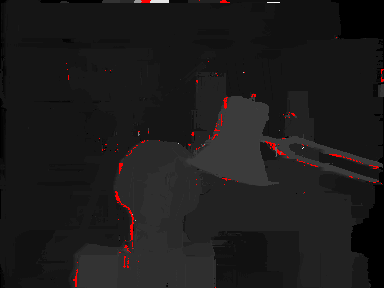
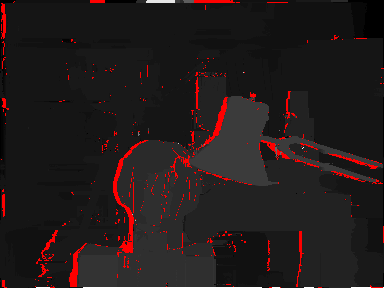
Refinement fixed
- consistency calculated
- fixed confidence level

diff --git a/stereo_matching/main.cpp b/stereo_matching/main.cpp
@@ -346,9 +346,9 @@ int main()
   cl_event event_asw_wta;
   cl_event event_image;
   cl_event event_aggr;
-  cl_event event_vreff_l;
-  cl_event event_hreff_l;
-  cl_event event_wta_ref_l;
+  cl_event event_vreff[2];
+  cl_event event_hreff[2];
+  cl_event event_wta_ref[2];
 
   cl_mem asw_cost_buffer[2]; 
   cl_mem asw_initcost = clCreateBuffer(context, CL_MEM_READ_WRITE, sizeof(float) * result[1].width * result[1].height * 61, nullptr, &error);
@@ -356,11 +356,15 @@ int main()
   asw_cost_buffer[1] = clCreateBuffer(context, CL_MEM_READ_WRITE, sizeof(float) * result[1].width * result[1].height * 61, nullptr, &error);
   cl_mem asw_left_wta = clCreateImage2D(context, CL_MEM_READ_WRITE, &format, result[0].width, result[0].height, 0, nullptr, &error);
   cl_mem asw_right_wta = clCreateImage2D(context, CL_MEM_READ_WRITE, &format, result[0].width, result[0].height, 0, nullptr, &error);
-  cl_mem asw_d = clCreateBuffer(context, CL_MEM_READ_WRITE, sizeof(float) * result[1].width * result[1].height * 3, nullptr, &error);
-  cl_mem asw_d_target = clCreateBuffer(context, CL_MEM_READ_WRITE, sizeof(float) * result[1].width * result[1].height * 3, nullptr, &error);
+  cl_mem asw_d_est_reference = clCreateBuffer(context, CL_MEM_READ_WRITE, sizeof(float) * result[1].width * result[1].height * 1, nullptr, &error);
+  cl_mem asw_d_est_target = clCreateBuffer(context, CL_MEM_READ_WRITE, sizeof(float) * result[1].width * result[1].height * 1, nullptr, &error);
+  cl_mem asw_confidence_reference = clCreateBuffer(context, CL_MEM_READ_WRITE, sizeof(float) * result[1].width * result[1].height * 1, nullptr, &error);
+  cl_mem asw_confidence_target = clCreateBuffer(context, CL_MEM_READ_WRITE, sizeof(float) * result[1].width * result[1].height * 1, nullptr, &error);
   cl_mem asw_vref_l = clCreateBuffer(context, CL_MEM_READ_WRITE, sizeof(float) * result[1].width * result[1].height * 2, nullptr, &error);
+  cl_mem asw_vref_r = clCreateBuffer(context, CL_MEM_READ_WRITE, sizeof(float) * result[1].width * result[1].height * 2, nullptr, &error);
   cl_mem asw_href_l = clCreateBuffer(context, CL_MEM_READ_WRITE, sizeof(float) * result[1].width * result[1].height * 2, nullptr, &error);
-  cl_mem asw_wta_ref_l = clCreateBuffer(context, CL_MEM_READ_WRITE, sizeof(float) * result[1].width * result[1].height * 3, nullptr, &error);
+  cl_mem asw_href_r = clCreateBuffer(context, CL_MEM_READ_WRITE, sizeof(float) * result[1].width * result[1].height * 2, nullptr, &error);
+  cl_mem asw_wta_ref_l = clCreateBuffer(context, CL_MEM_READ_WRITE, sizeof(float) * result[1].width * result[1].height * 2, nullptr, &error);
   cl_mem asw_denom = clCreateBuffer(context, CL_MEM_READ_WRITE, sizeof(float) * result[1].width * result[1].height * 61, nullptr, &error);
   cl_mem consistency_error = clCreateImage2D(context, CL_MEM_READ_WRITE, &format, result[0].width, result[0].height, 0, nullptr, &error);
   
@@ -371,23 +375,12 @@ int main()
   clSetKernelArg(asw_aggr, 1, sizeof(cl_mem), &inputImage_r);
   clSetKernelArg(asw_aggr, 2, sizeof(cl_mem), &asw_initcost);
   ErCheck(clEnqueueNDRangeKernel(queue, asw_aggr, 2, nullptr, size, nullptr, 0, nullptr, &event_aggr));
-  
-  clSetKernelArg(asw_disp, 0, sizeof(cl_mem), &asw_initcost);
-  clSetKernelArg(asw_disp, 1, sizeof(cl_mem), &asw_initcost);
-  clSetKernelArg(asw_disp, 2, sizeof(cl_mem), &asw_left_wta);
-  clSetKernelArg(asw_disp, 3, sizeof(cl_mem), &asw_d);
-  clSetKernelArg(asw_disp, 4, sizeof(cl_mem), &asw_right_wta);
-  clSetKernelArg(asw_disp, 5, sizeof(cl_mem), &asw_d_target);
-  // clSetKernelArg(asw_disp, 2, sizeof(cl_mem), &asw_right_wta);
-  ErCheck(clEnqueueNDRangeKernel(queue, asw_disp, 2, nullptr, size, nullptr, 1, &event_aggr, &event_asw_wta));
 
-  clEnqueueReadImage(queue, asw_left_wta, CL_TRUE, origin, region, 0, 0, result[1].pixel.data(), 1, &event_asw_wta, &event_aggr);
-  lodepng::encode("sukub/asw_raw_d.png", result[1].pixel, result[1].width, result[1].height);
    //cost - V
   printf("\nAggregation:");
   cl_mem * temp = &asw_initcost;
   //loop r times
-  int r = 10;
+  int r = 6;
   for (int i = 0; i < r; i++)
   {
    clSetKernelArg(asw_vaggregation_kernel, 0, sizeof(cl_mem), &inputImage_l);
@@ -405,19 +398,24 @@ int main()
    ErCheck(clEnqueueNDRangeKernel(queue, asw_haggregation_kernel, 3, nullptr, asw_cost_size, nullptr, 1, &event_vaggr, &event_haggr));
 
    //this part is just for testing purposes and will be put outside 'for'
+   
    clSetKernelArg(asw_disp, 0, sizeof(cl_mem), &asw_cost_buffer[1]);
-   clSetKernelArg(asw_disp, 1, sizeof(cl_mem), &asw_initcost);
-   clSetKernelArg(asw_disp, 2, sizeof(cl_mem), &asw_left_wta);
-   clSetKernelArg(asw_disp, 3, sizeof(cl_mem), &asw_d);
+   clSetKernelArg(asw_disp, 1, sizeof(cl_mem), &asw_left_wta);
+   clSetKernelArg(asw_disp, 2, sizeof(cl_mem), &asw_d_est_reference);
+   clSetKernelArg(asw_disp, 3, sizeof(cl_mem), &asw_d_est_target);
    clSetKernelArg(asw_disp, 4, sizeof(cl_mem), &asw_right_wta);
-   clSetKernelArg(asw_disp, 5, sizeof(cl_mem), &asw_d_target);
+   clSetKernelArg(asw_disp, 5, sizeof(cl_mem), &asw_confidence_reference);
+   clSetKernelArg(asw_disp, 6, sizeof(cl_mem), &asw_confidence_target);
    ErCheck(clEnqueueNDRangeKernel(queue, asw_disp, 2, nullptr, size, nullptr, 1, &event_haggr, &event_asw_wta));
-
+   
+   
    clSetKernelArg(consist_kernel, 0, sizeof(cl_mem), &asw_left_wta);
    clSetKernelArg(consist_kernel, 1, sizeof(cl_mem), &asw_right_wta);
-   clSetKernelArg(consist_kernel, 2, sizeof(cl_mem), &consistency_error);
+   clSetKernelArg(consist_kernel, 2, sizeof(cl_mem), &asw_confidence_reference);
+   clSetKernelArg(consist_kernel, 3, sizeof(cl_mem), &asw_confidence_target);
+   clSetKernelArg(consist_kernel, 4, sizeof(cl_mem), &consistency_error);
    ErCheck(clEnqueueNDRangeKernel(queue, consist_kernel, 2, nullptr, size, nullptr, 1, &event_asw_wta, &event_asw_wta));
-
+   
 
    clEnqueueReadImage(queue, asw_left_wta, CL_TRUE, origin, region, 0, 0, result[2].pixel.data(), 1, &event_asw_wta, &event_aggr);
    std::string img_name = "sukub/aggregation/reference/aggregation_" + std::to_string(i) + ".png";
@@ -439,30 +437,52 @@ int main()
   
   //its not working
   printf("\nRefinement:");
-  temp = &asw_d;
+  temp = &asw_d_est_reference;
+  cl_mem * temp_target = &asw_d_est_target;
+
   int k = 8;
   for (int i = 0; i < k; i++)
   {
+   //vertical refinement for left image
    clSetKernelArg(asw_ref_v, 0, sizeof(cl_mem), &inputImage_l);
    clSetKernelArg(asw_ref_v, 1, sizeof(cl_mem), temp);
-   clSetKernelArg(asw_ref_v, 2, sizeof(cl_mem), &asw_vref_l);
-   ErCheck(clEnqueueNDRangeKernel(queue, asw_ref_v, 2, nullptr, size, nullptr, 1, &event_aggr, &event_vreff_l));
+   clSetKernelArg(asw_ref_v, 2, sizeof(cl_mem), &asw_confidence_reference);
+   clSetKernelArg(asw_ref_v, 3, sizeof(cl_mem), &asw_vref_l);
+   ErCheck(clEnqueueNDRangeKernel(queue, asw_ref_v, 2, nullptr, size, nullptr, 1, &event_aggr, &event_vreff[0]));
 
+   //vertical refinement for right image
+   clSetKernelArg(asw_ref_v, 0, sizeof(cl_mem), &inputImage_r);
+   clSetKernelArg(asw_ref_v, 1, sizeof(cl_mem), temp_target);
+   clSetKernelArg(asw_ref_v, 2, sizeof(cl_mem), &asw_confidence_target);
+   clSetKernelArg(asw_ref_v, 3, sizeof(cl_mem), &asw_vref_r);
+   ErCheck(clEnqueueNDRangeKernel(queue, asw_ref_v, 2, nullptr, size, nullptr, 1, &event_aggr, &event_vreff[1]));
+
+   //horizontal refinement for left image
    clSetKernelArg(asw_ref_h, 0, sizeof(cl_mem), &inputImage_l);
    clSetKernelArg(asw_ref_h, 1, sizeof(cl_mem), temp);
-   clSetKernelArg(asw_ref_h, 2, sizeof(cl_mem), &asw_vref_l);
-   clSetKernelArg(asw_ref_h, 3, sizeof(cl_mem), &asw_href_l);
-   ErCheck(clEnqueueNDRangeKernel(queue, asw_ref_h, 2, nullptr, size, nullptr, 1, &event_vreff_l, &event_hreff_l));
+   clSetKernelArg(asw_ref_h, 2, sizeof(cl_mem), &asw_confidence_reference);
+   clSetKernelArg(asw_ref_h, 3, sizeof(cl_mem), &asw_vref_l);
+   clSetKernelArg(asw_ref_h, 4, sizeof(cl_mem), &asw_href_l);
+   ErCheck(clEnqueueNDRangeKernel(queue, asw_ref_h, 2, nullptr, size, nullptr, 1, &event_vreff[0], &event_hreff[0]));
 
-   clSetKernelArg(asw_wta_ref, 0, sizeof(cl_mem), &asw_initcost);
-   clSetKernelArg(asw_wta_ref, 1, sizeof(cl_mem), &asw_cost_buffer[1]);
-   clSetKernelArg(asw_wta_ref, 2, sizeof(cl_mem), &asw_href_l);
-   clSetKernelArg(asw_wta_ref, 3, sizeof(cl_mem), &asw_left_wta);
-   clSetKernelArg(asw_wta_ref, 4, sizeof(cl_mem), &asw_wta_ref_l);
-   ErCheck(clEnqueueNDRangeKernel(queue, asw_wta_ref, 2, nullptr, size, nullptr, 1, &event_hreff_l, &event_wta_ref_l));
+   //horizontal refinement for right image
+   clSetKernelArg(asw_ref_h, 0, sizeof(cl_mem), &inputImage_r);
+   clSetKernelArg(asw_ref_h, 1, sizeof(cl_mem), temp_target);
+   clSetKernelArg(asw_ref_h, 2, sizeof(cl_mem), &asw_confidence_target);
+   clSetKernelArg(asw_ref_h, 3, sizeof(cl_mem), &asw_vref_r);
+   clSetKernelArg(asw_ref_h, 4, sizeof(cl_mem), &asw_href_r);
+   ErCheck(clEnqueueNDRangeKernel(queue, asw_ref_h, 2, nullptr, size, nullptr, 1, &event_vreff[1], &event_hreff[1]));
+
+   //WTA left image
+   clSetKernelArg(asw_wta_ref, 0, sizeof(cl_mem), &asw_cost_buffer[1]);
+   clSetKernelArg(asw_wta_ref, 1, sizeof(cl_mem), &asw_href_l);
+   clSetKernelArg(asw_wta_ref, 2, sizeof(cl_mem), &asw_left_wta);
+   clSetKernelArg(asw_wta_ref, 3, sizeof(cl_mem), &asw_wta_ref_l);
+   clSetKernelArg(asw_wta_ref, 4, sizeof(cl_mem), &asw_confidence_reference);
+   ErCheck(clEnqueueNDRangeKernel(queue, asw_wta_ref, 2, nullptr, size, nullptr, 1, &event_hreff[0], &event_wta_ref[0]));
    
 
-   clEnqueueReadImage(queue, asw_left_wta, CL_TRUE, origin, region, 0, 0, result[2].pixel.data(), 1, &event_wta_ref_l, &event_aggr);
+   clEnqueueReadImage(queue, asw_left_wta, CL_TRUE, origin, region, 0, 0, result[2].pixel.data(), 1, &event_wta_ref[0], &event_aggr);
    std::string img_name = "sukub/refinement/refinement_" + std::to_string(i) + ".png";
    lodepng::encode(img_name, result[2].pixel, result[1].width, result[1].height);
    printf("\n\tloop #%d", i + 1);
@@ -471,7 +491,7 @@ int main()
 
   clWaitForEvents(1, &event_aggr);
   
-
+  
 
 
 
@@ -487,8 +507,8 @@ int main()
   clReleaseMemObject(asw_initcost);
   clReleaseMemObject(asw_wta_ref_l);
   clReleaseMemObject(consistency_error);
-  clReleaseMemObject(asw_d);
-  clReleaseMemObject(asw_d_target);
+  clReleaseMemObject(asw_d_est_reference);
+  clReleaseMemObject(asw_confidence_reference);
   clReleaseMemObject(asw_denom);
 
   clReleaseKernel(asw_vsupport);
